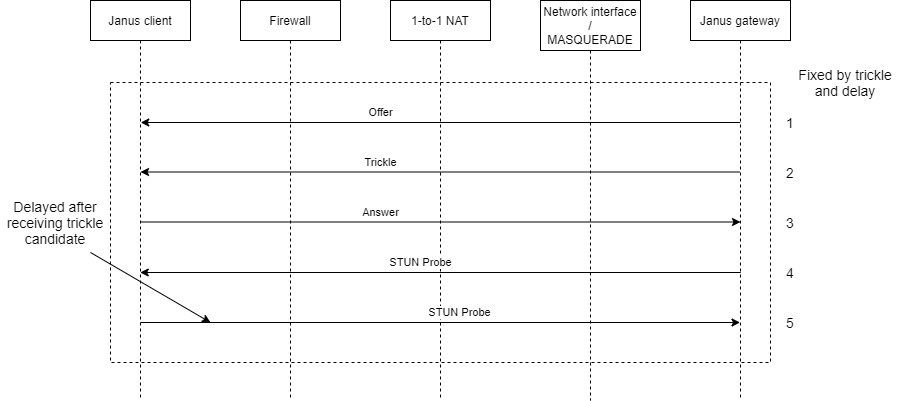
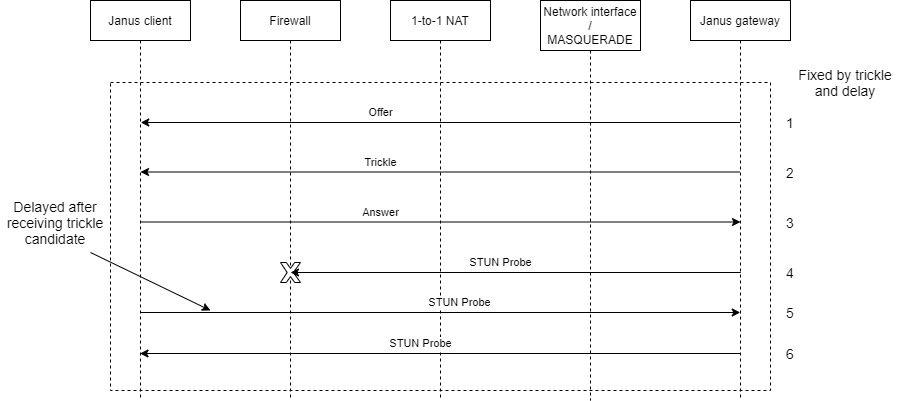
Updating setup instructions

diff --git a/README.md b/README.md
@@ -11,7 +11,7 @@ the purpose of experimentation.
 Please note:
 * This project is **work in progress**
 * Only the video room with HTTP transport has been tried. Possibly other transports will require adjustments in the content of the target image (e.g. included Ubuntu packages)
-* The author welcomes any comments and sugestions!
+* The author welcomes (hopes for) comments and sugestions!
 
 ## Host setup
 The figure below depicts the host configuration.
@@ -227,11 +227,17 @@ because of the earlier received message from the targeted address and port.
 Therefore because of the race condition created by the STUN probes issued by the client prior to the gatway opening the ports and because of the behavior of the MASQUARADE netfilter target the 
 gateway issued STUN probes get their port wrongly reassigned. These probes most probably cannot reach the client because of the firewall on the client side that may be port restrictive. 
 
+## Solutions
+In an attempt to delay the STUN client probes we have configred the gateway to trickle the candidates, which was unsuficient. Therefore we have also added an addional 1s delay in the 
+client (janus.js file) when processing the received trickle candidates from the gateway. While this is not an acceptable solution the problem appeared to be solve.
+1. The gateway sends the offer.
+1. The gateway starts trickling the candidates. But the processing of the received tricked candidates is delayed by 1s at the client.
+1. The client issues an answer.
+1. The gatway sends a STUN probe that don't reach the client because the firewall port is still closed because of the delay.
+1. The client sends a STUN probe that opens the firewall port and reaches the gatway.
+1. Finally the server re-sends a STUN proble that reaches this time the client.
 
-
-## Conclusion
-
-
+![Tricked and delayed approach](doc/sequence_trickle_delay.jpg)
 
 
 
